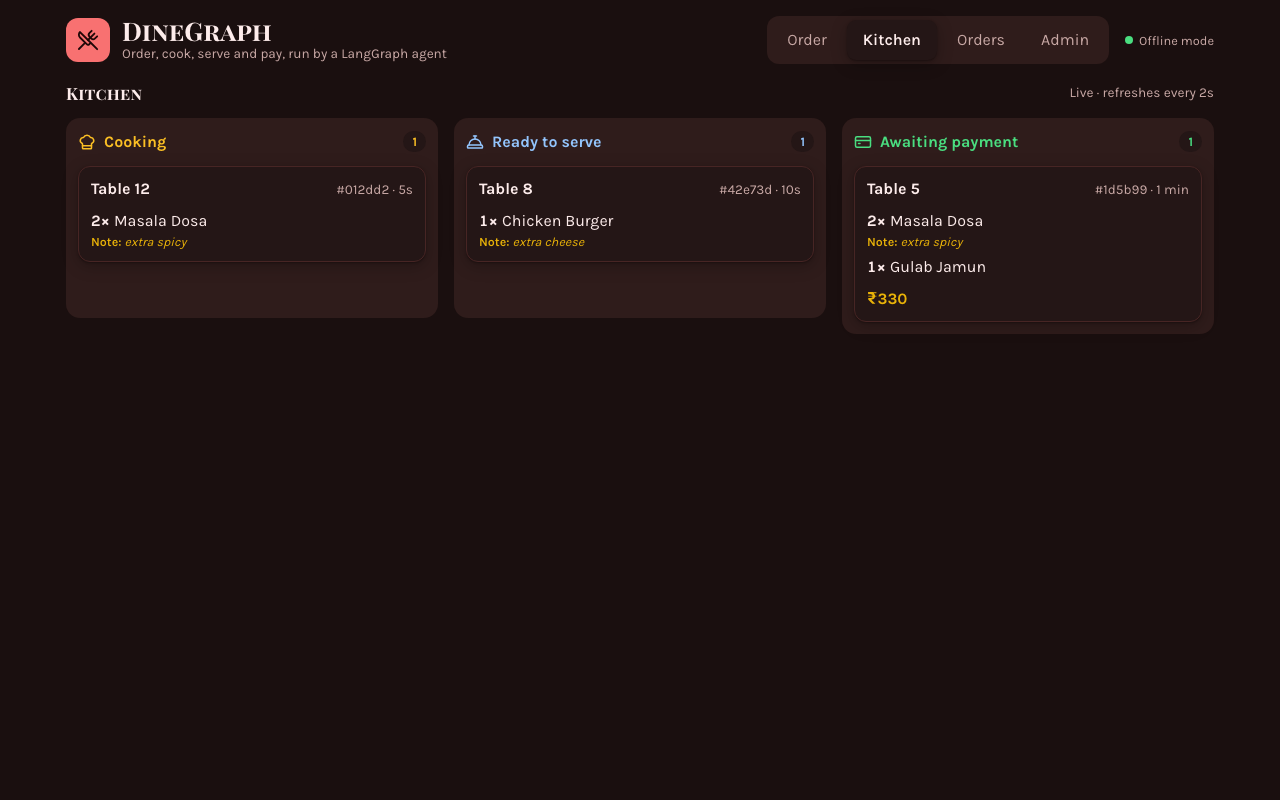
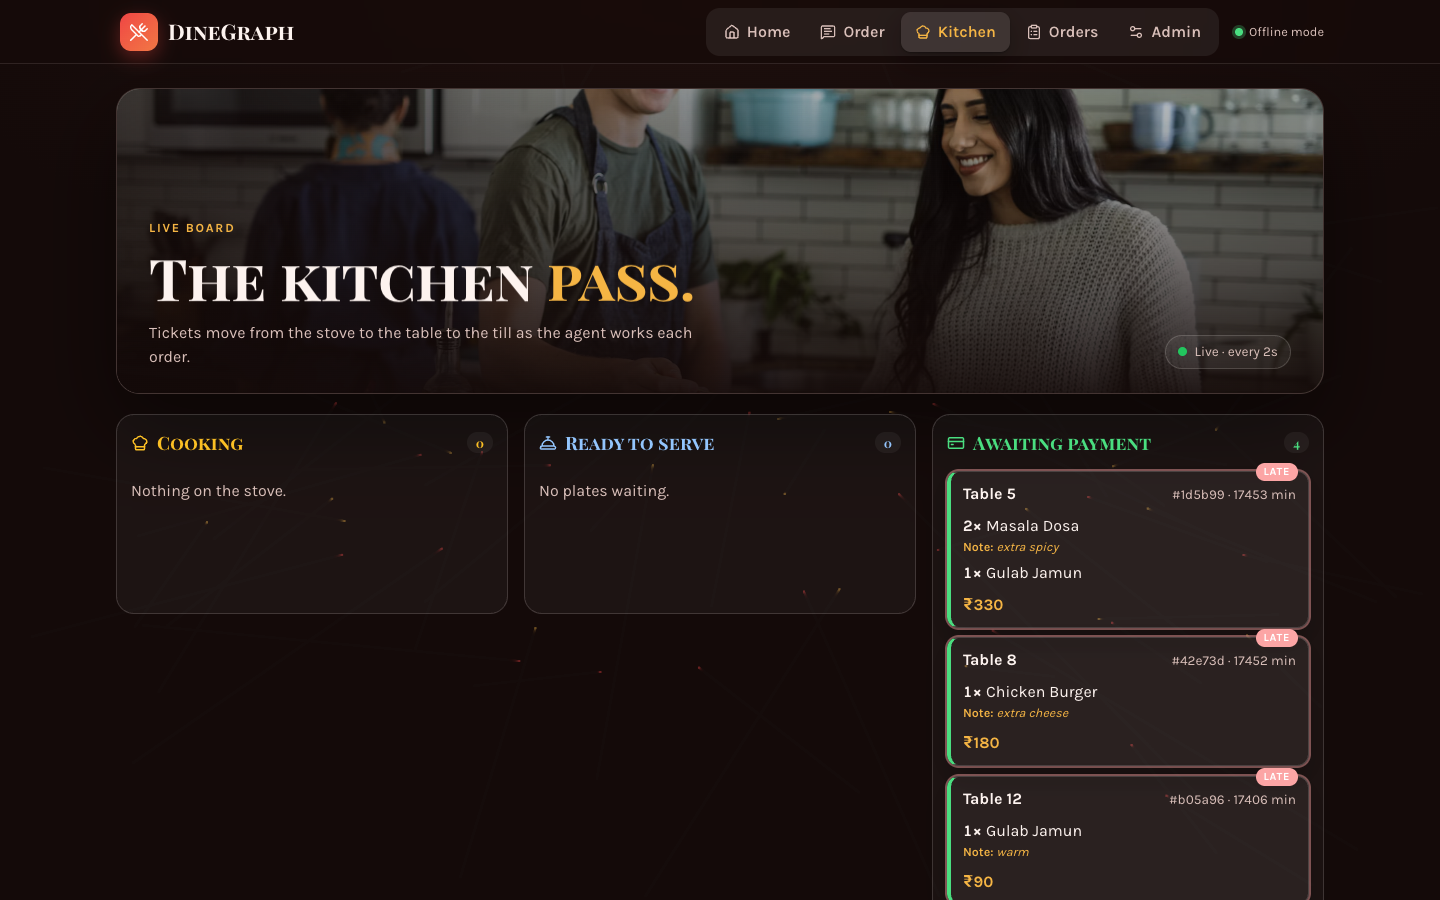
Update README screenshots for the redesigned frontend

diff --git a/README.md b/README.md
@@ -4,9 +4,15 @@ DineGraph is a restaurant order management agent built with [LangGraph](https://
 
 It comes with a FastAPI backend, a React web app with a live kitchen screen, and an offline mode that runs everything without an API key. The original design notes are in [approch.md](approch.md).
 
+![The home page: headline over a moving corridor of dish photos, with links to order or watch the kitchen](docs/home.png)
+
 ![The order screen: chat with the agent, table picker, order progress, tracking and menu](docs/order.png)
 
 ![The kitchen screen: live tickets for cooking, ready to serve and awaiting payment](docs/kitchen.png)
+
+![The orders screen: every order with its table, items, total, payment method and result](docs/orders.png)
+
+![The admin screen: revenue and order outcomes, plus menu prices and stock](docs/admin.png)
 
 ## Contents
 
